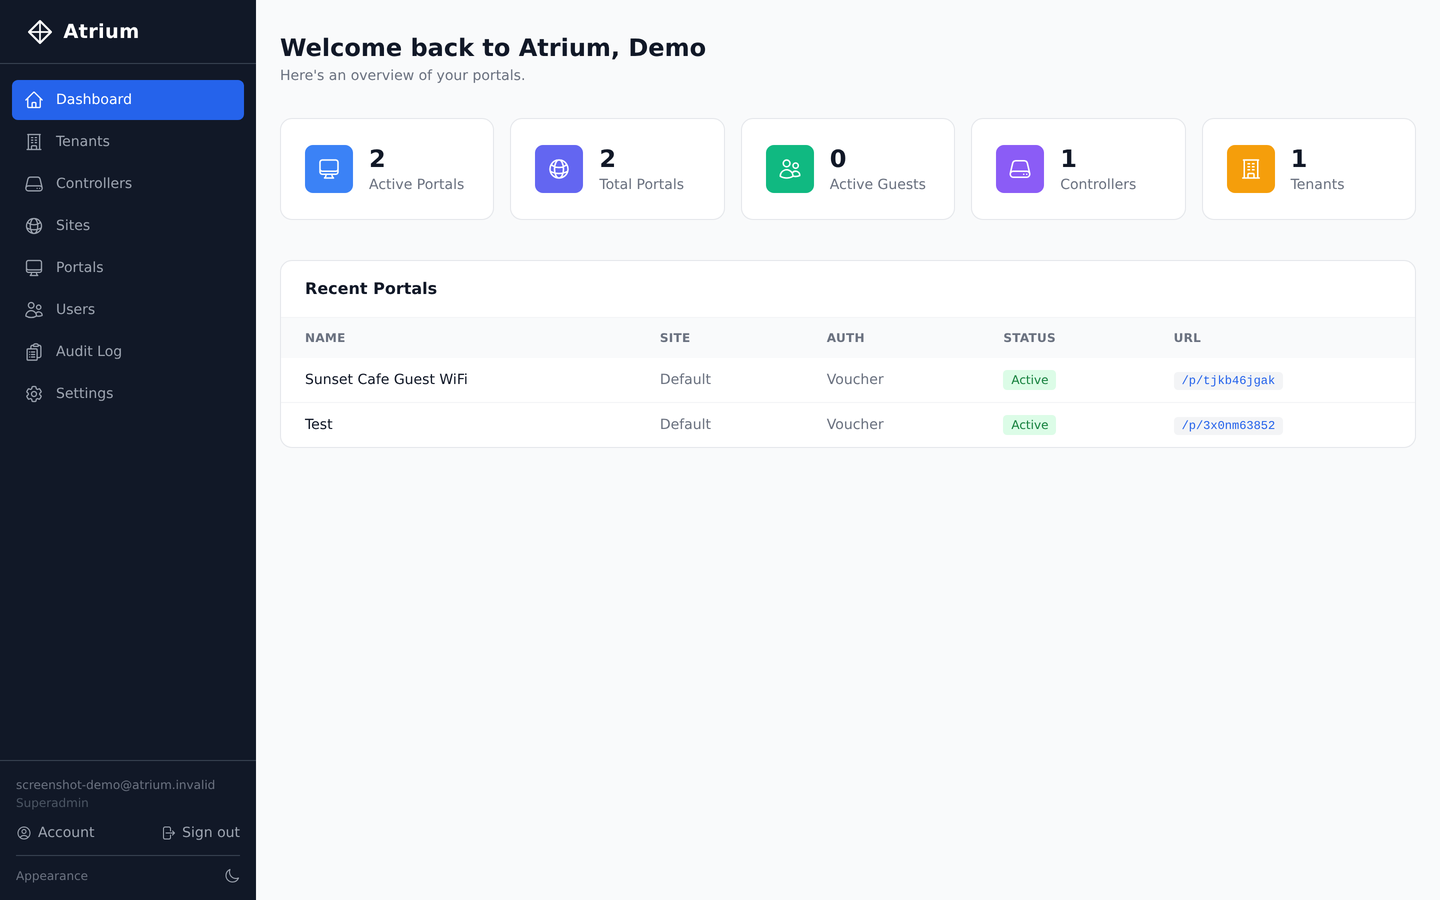
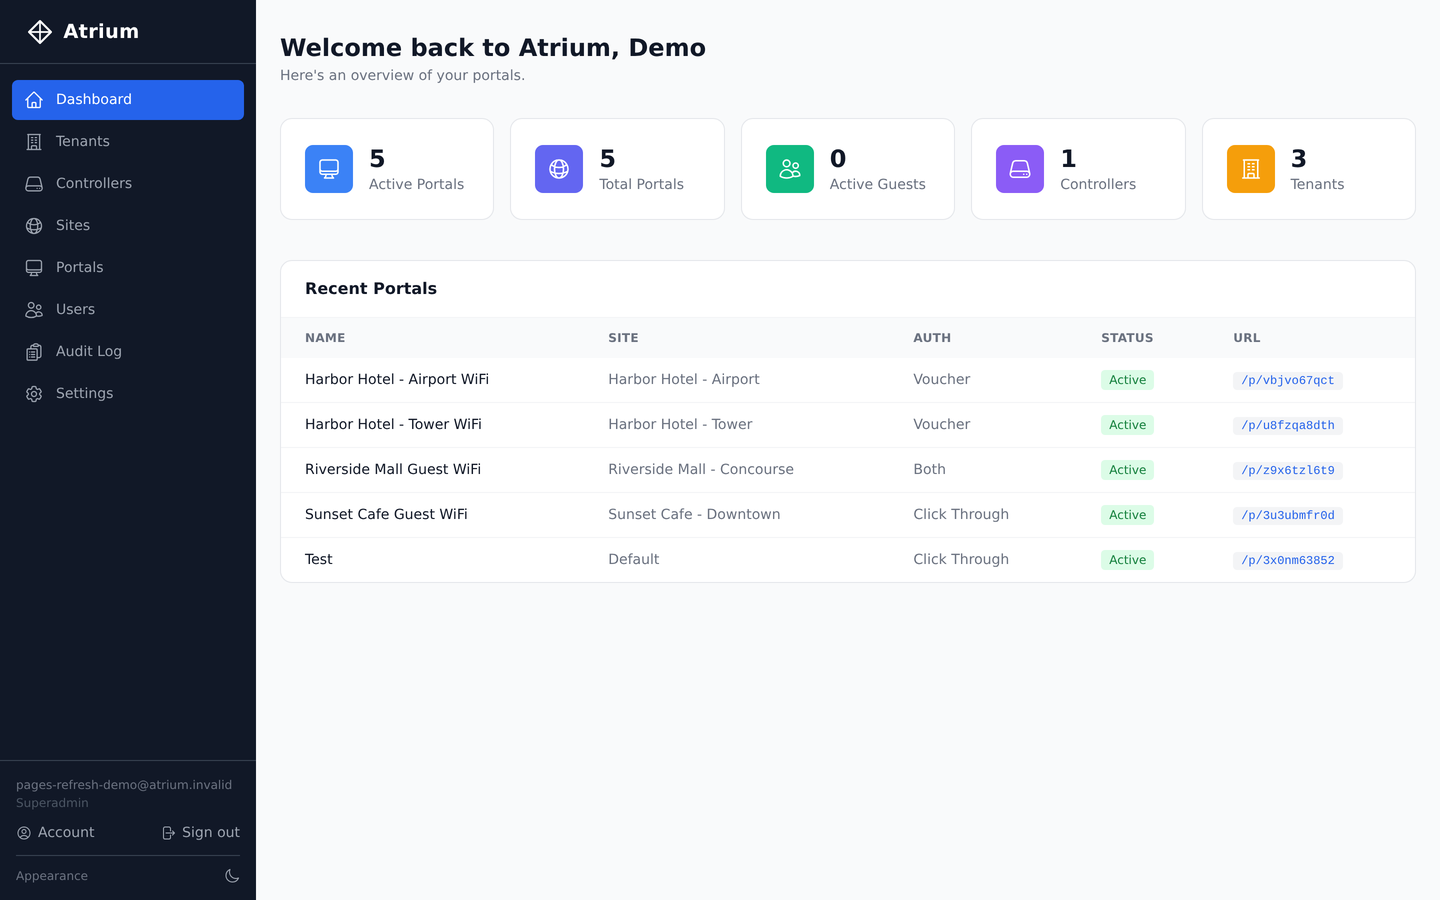
Refresh Pages screenshots: fix stale UniFi path, add multi-tenant/multi-site
portals.png now shows the corrected "Client Devices -> Hotspot -> Landing
Page" hint instead of the old path. Retook dashboard.png and tenants.png
against a richer demo dataset (3 tenants, one with 2 sites), and added a
new sites.png plus two new landing page sections specifically to sell the
multi-tenant (MSP) and multi-site angle, which nothing on the page
actually showed before despite being the headline pitch.

Screenshots taken via a throwaway demo superadmin account and demo
tenants/sites/portals, all deleted afterward - verified DB state matches
the pre-existing baseline exactly.

diff --git a/docs/index.html b/docs/index.html
@@ -115,6 +115,24 @@
     </div>
 
     <div class="shot">
+      <div class="shot-frame"><img src="assets/screenshots/tenants.png" alt="Tenants page showing multiple client organisations managed under one Atrium install" tabindex="0" role="button" class="lightbox-trigger"></div>
+      <div class="shot-text">
+        <span class="eyebrow">Multi-tenant</span>
+        <h3>Built for managing other people's networks</h3>
+        <p>Running guest WiFi for multiple clients as an MSP? Each one is a fully isolated tenant - their own sites, portals, and users, all under a single install you maintain.</p>
+      </div>
+    </div>
+
+    <div class="shot">
+      <div class="shot-frame"><img src="assets/screenshots/sites.png" alt="Sites page showing multiple UniFi sites across different tenants, each assignable and each with their own portals" tabindex="0" role="button" class="lightbox-trigger"></div>
+      <div class="shot-text">
+        <span class="eyebrow">Multi-site</span>
+        <h3>One client, many locations</h3>
+        <p>A tenant isn't limited to one site - assign as many UniFi sites to them as they have locations, each with its own portal, branding, and guest data.</p>
+      </div>
+    </div>
+
+    <div class="shot">
       <div class="shot-frame"><img src="assets/screenshots/portal_editor.png" alt="Portal appearance editor showing color pickers, font, layout, and logo/background upload" tabindex="0" role="button" class="lightbox-trigger"></div>
       <div class="shot-text">
         <span class="eyebrow">Portal builder</span>